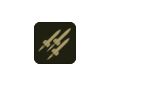
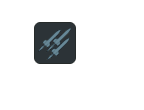
self wrecked image and implementation

Changed region(s): [[0.2222, 0.1909, 0.5278, 0.6]]

diff --git a/Classes.py b/Classes.py
@@ -15,8 +15,8 @@ class Plane:
         self.x = 50
         self.y = display_height / 2 - 100
         self.degree = 0
-        self.max_lives = 500
-        self.lives = 500
+        self.max_lives = 50
+        self.lives = 50
         self.last_shot_primary = 0
         self.last_shot_secondary = 0
         self.type = "user"
@@ -40,7 +40,6 @@ class Plane:
                 if bullet.x < self.x + 100 and abs(bullet.y - self.y - 44) < 35:
                     self.lives -= bullet.damage
                     bullets.remove(bullet)
-
 
     def swap_weapon(self):
         if self.active_weapon == self.primary_weapon:
@@ -86,43 +85,54 @@ class Plane:
         Info.secondary_img_unactive = pygame.image.load(ammo[name]['bullet_icon_unactive'])
 
     def calc_degree(self, kb):
-        degree = self.degree
-        up = kb.up
-        down = kb.down
+        if not self.lives <= 0:
+            degree = self.degree
+            up = kb.up
+            down = kb.down
 
-        if down:
-            if degree > -20:
-                degree -= 1
-            else:
-                degree = -20
-        if up:
-            if degree < 20:
-               degree += 1
-            else:
-               degree = 20
-        if (not up and not down) or (up and down):
-            if degree >= 2:
-                degree -= 2
-            elif degree <= -2:
-                degree += 2
-            else:
-                degree = 0
+            if down:
+                if degree > -20:
+                    degree -= 1
+                else:
+                    degree = -20
+            if up:
+                if degree < 20:
+                   degree += 1
+                else:
+                   degree = 20
+            if (not up and not down) or (up and down):
+                if degree >= 2:
+                    degree -= 2
+                elif degree <= -2:
+                    degree += 2
+                else:
+                    degree = 0
+        else:
+            degree = -20
+
         self.degree = degree
 
     def calc_pos(self, kb):
-        up = kb.up
-        down = kb.down
-        left = kb.left
-        right = kb.right
+        if not self.lives <= 0:
+            up = kb.up
+            down = kb.down
+            left = kb.left
+            right = kb.right
 
-        if up:
-            self.y -= up_speed
-        if down:
-            self.y += down_speed
-        if left:
-            self.x -= left_speed
-        if right:
-            self.x += right_speed
+            if up:
+                self.y -= up_speed
+            if down:
+                self.y += down_speed
+            if left:
+                self.x -= left_speed
+            if right:
+                self.x += right_speed
+        elif self.y < display_height - 90:
+            self.y += 8
+        else:
+            self.image_surf = pygame.image.load("images/plane_wrecked.png")
+            self.x -= bg_speed
+
 
     def weapon_pos(self):
         x_offset = cos(self.degree*pi/180) * 50
@@ -600,7 +610,12 @@ class Info:
         self.screen.blit(self.heart, (self.heart_x, self.heart_y))
 
     def blit_lives(self, plane):
-        textSurface = self.font.render(str(int((plane.lives / plane.max_lives) * 100)), True, white)
+        if plane.lives > 0:
+            lives = str(int((plane.lives / plane.max_lives) * 100))
+        else:
+            lives = "0"
+
+        textSurface = self.font.render(lives, True, white)
         textRect = textSurface.get_rect()
         textRect.center = (self.heart_x + 100 + textRect.width/2, self.heart_y + 55)
         self.screen.blit(textSurface, textRect)
@@ -678,11 +693,12 @@ class Gameplay:
         self.info = info
 
     def check_if_game_over(self):
-        if self.plane.lives <= 0:
-            self.gameover_reason = "You got destroyed!"
-            self.gameover = True
-
-        return self.gameover
+        # if self.plane.lives <= 0:
+        #     self.gameover_reason = "You got destroyed!"
+        #     self.gameover = True
+        #
+        # return self.gameover
+        return False
 
 
     def pause(self, keyboard, info):
